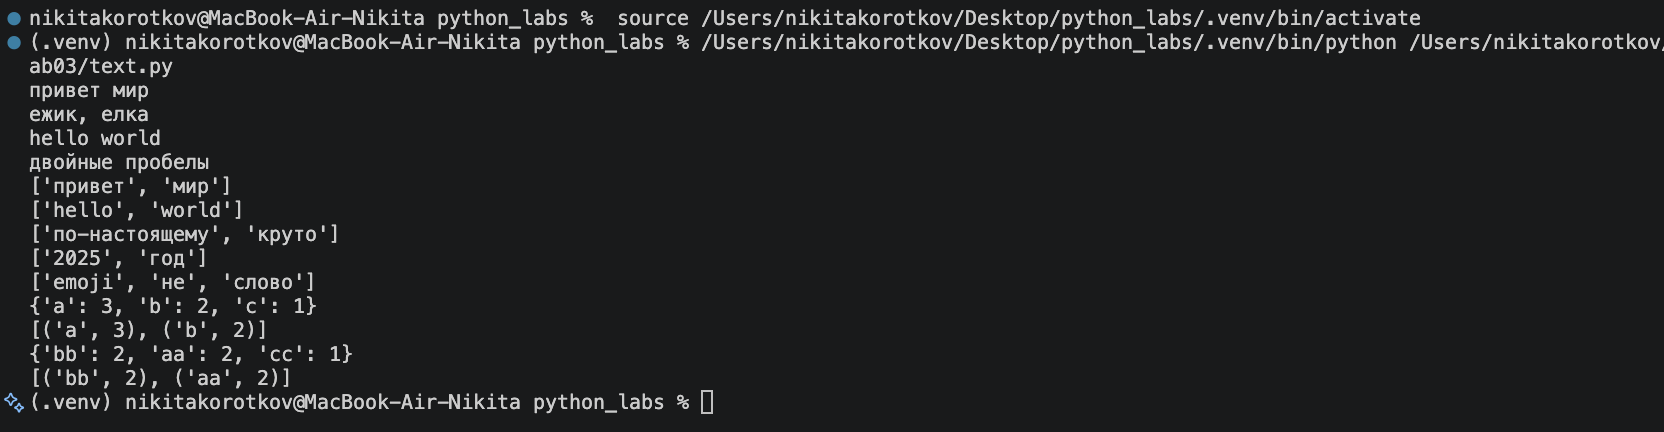
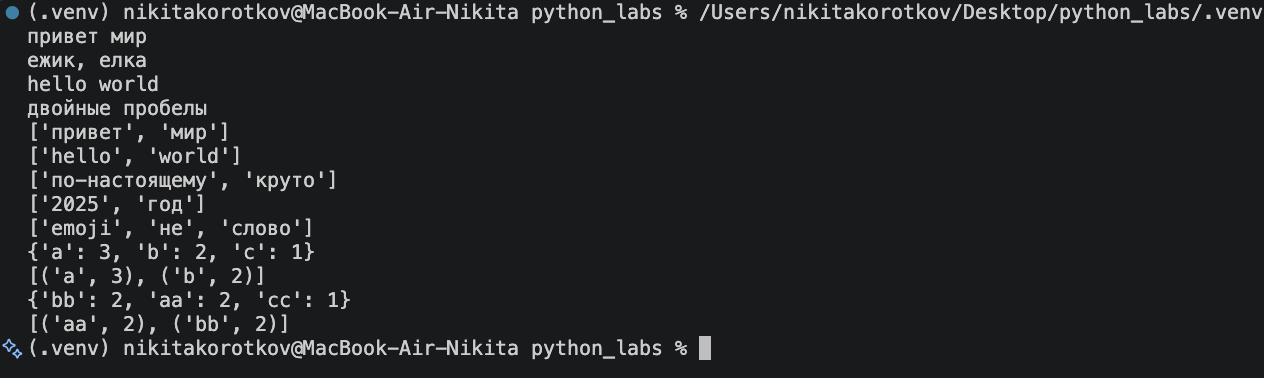
change lab03

Changed region(s): [[0.0, 0.0, 1.0, 0.9603]]

diff --git a/src/lib/text.py b/src/lib/text.py
@@ -16,14 +16,13 @@ def normalize(text: str, *, casefold: bool = True, yo2e: bool = True) -> str:
 
 def tokenize(text: str) -> list[str]:
     '''
-    Ищу все норм слова 
-    assert tokenize("привет, мир!") == ["привет", "мир"]
-    assert tokenize("по-настоящему круто") == ["по-настоящему", "круто"]
-    assert tokenize("2025 год") == ["2025", "год"]
-
+        Ищу все норм слова 
+        assert tokenize("привет, мир!") == ["привет", "мир"]
+        assert tokenize("по-настоящему круто") == ["по-настоящему", "круто"]
+        assert tokenize("2025 год") == ["2025", "год"]
+    
     '''
-    words = re.findall(r"[A-Za-zА-Яа-яЁё0-9]+(?:-[A-Za-zА-Яа-яЁё0-9]+)*", text)
-    return words
+    return re.findall(r"\w+(?:-\w+)*", text)
 
 def count_freq(tokens: list[str]) -> dict[str, int]:
     '''
@@ -40,11 +39,37 @@ def count_freq(tokens: list[str]) -> dict[str, int]:
             dictionary[item]+=1
     return dictionary
 
+
 def top_n(freq: dict[str, int], n: int = 5) -> list[tuple[str, int]]:
     '''
-    Сортируем полученный список
-    freq2 = count_freq(["bb","aa","bb","aa","cc"])
-    assert top_n(freq2, 2) == [("aa",2), ("bb",2)]
+        Сортируем полученный список
+        freq2 = count_freq(["bb","aa","bb","aa","cc"])
+        assert top_n(freq2, 2) == [("aa",2), ("bb",2)]
     '''
-    sorted_freq = list(sorted(freq.items(), key=lambda x: (x[1], len(x[0])), reverse=True))
+    sorted_freq = sorted(freq.items(), key=lambda x: (-x[1], x[0]))
     return sorted_freq[:n]
+
+
+
+if __name__ == "__main__":
+    # normalize
+    print(normalize("ПрИвЕт\nМИр\t"))
+    print(normalize("ёжик, Ёлка"))
+    print(normalize("Hello\r\nWorld"))
+    print(normalize("  двойные   пробелы  "))
+
+    # tokenize
+    print(tokenize("привет мир"))
+    print(tokenize("hello,world!!!"))
+    print(tokenize("по-настоящему круто"))
+    print(tokenize("2025 год"))
+    print(tokenize("emoji 😀 не слово"))
+
+    # count_freq + top_n
+    freq = count_freq(["a", "b", "a", "c", "b", "a"])
+    print(freq)
+    print(top_n(freq, n=2))
+
+    freq = count_freq(["bb", "aa", "bb", "aa", "cc"])
+    print(freq)
+    print(top_n(freq, n=2))

diff --git a/src/lab03/text.py b/src/lab03/text.py
@@ -16,14 +16,13 @@ def normalize(text: str, *, casefold: bool = True, yo2e: bool = True) -> str:
 
 def tokenize(text: str) -> list[str]:
     '''
-    Ищу все норм слова 
-    assert tokenize("привет, мир!") == ["привет", "мир"]
-    assert tokenize("по-настоящему круто") == ["по-настоящему", "круто"]
-    assert tokenize("2025 год") == ["2025", "год"]
-
+        Ищу все норм слова 
+        assert tokenize("привет, мир!") == ["привет", "мир"]
+        assert tokenize("по-настоящему круто") == ["по-настоящему", "круто"]
+        assert tokenize("2025 год") == ["2025", "год"]
+    
     '''
-    words = re.findall(r"[A-Za-zА-Яа-яЁё0-9]+(?:-[A-Za-zА-Яа-яЁё0-9]+)*", text)
-    return words
+    return re.findall(r"\w+(?:-\w+)*", text)
 
 def count_freq(tokens: list[str]) -> dict[str, int]:
     '''
@@ -40,13 +39,14 @@ def count_freq(tokens: list[str]) -> dict[str, int]:
             dictionary[item]+=1
     return dictionary
 
+
 def top_n(freq: dict[str, int], n: int = 5) -> list[tuple[str, int]]:
     '''
-    Сортируем полученный список
-    freq2 = count_freq(["bb","aa","bb","aa","cc"])
-    assert top_n(freq2, 2) == [("aa",2), ("bb",2)]
+        Сортируем полученный список
+        freq2 = count_freq(["bb","aa","bb","aa","cc"])
+        assert top_n(freq2, 2) == [("aa",2), ("bb",2)]
     '''
-    sorted_freq = list(sorted(freq.items(), key=lambda x: (x[1], len(x[0])), reverse=True))
+    sorted_freq = sorted(freq.items(), key=lambda x: (-x[1], x[0]))
     return sorted_freq[:n]
 
 

diff --git a/src/lab03/text_stats.py b/src/lab03/text_stats.py
@@ -8,3 +8,6 @@ print(f"Уникальных слов: {len(freq)}")
 print("Топ-5:")
 for word, count in top_n(freq):
     print(f"{word}:{count}")
+
+
+

diff --git a/src/lab03/README.md b/src/lab03/README.md
@@ -21,14 +21,13 @@ def normalize(text: str, *, casefold: bool = True, yo2e: bool = True) -> str:
 
 def tokenize(text: str) -> list[str]:
     '''
-    Ищу все норм слова 
-    assert tokenize("привет, мир!") == ["привет", "мир"]
-    assert tokenize("по-настоящему круто") == ["по-настоящему", "круто"]
-    assert tokenize("2025 год") == ["2025", "год"]
-
+        Ищу все норм слова 
+        assert tokenize("привет, мир!") == ["привет", "мир"]
+        assert tokenize("по-настоящему круто") == ["по-настоящему", "круто"]
+        assert tokenize("2025 год") == ["2025", "год"]
+    
     '''
-    words = re.findall(r"[A-Za-zА-Яа-яЁё0-9]+(?:-[A-Za-zА-Яа-яЁё0-9]+)*", text)
-    return words
+    return re.findall(r"\w+(?:-\w+)*", text)
 
 def count_freq(tokens: list[str]) -> dict[str, int]:
     '''
@@ -45,14 +44,40 @@ def count_freq(tokens: list[str]) -> dict[str, int]:
             dictionary[item]+=1
     return dictionary
 
+
 def top_n(freq: dict[str, int], n: int = 5) -> list[tuple[str, int]]:
     '''
-    Сортируем полученный список
-    freq2 = count_freq(["bb","aa","bb","aa","cc"])
-    assert top_n(freq2, 2) == [("aa",2), ("bb",2)]
+        Сортируем полученный список
+        freq2 = count_freq(["bb","aa","bb","aa","cc"])
+        assert top_n(freq2, 2) == [("aa",2), ("bb",2)]
     '''
-    sorted_freq = list(sorted(freq.items(), key=lambda x: (x[1], len(x[0])), reverse=True))
+    sorted_freq = sorted(freq.items(), key=lambda x: (-x[1], x[0]))
     return sorted_freq[:n]
+
+
+
+if __name__ == "__main__":
+    # normalize
+    print(normalize("ПрИвЕт\nМИр\t"))
+    print(normalize("ёжик, Ёлка"))
+    print(normalize("Hello\r\nWorld"))
+    print(normalize("  двойные   пробелы  "))
+
+    # tokenize
+    print(tokenize("привет мир"))
+    print(tokenize("hello,world!!!"))
+    print(tokenize("по-настоящему круто"))
+    print(tokenize("2025 год"))
+    print(tokenize("emoji 😀 не слово"))
+
+    # count_freq + top_n
+    freq = count_freq(["a", "b", "a", "c", "b", "a"])
+    print(freq)
+    print(top_n(freq, n=2))
+
+    freq = count_freq(["bb", "aa", "bb", "aa", "cc"])
+    print(freq)
+    print(top_n(freq, n=2))
 ```
 
 ![Ex01](../../images/lab03/01.png)
